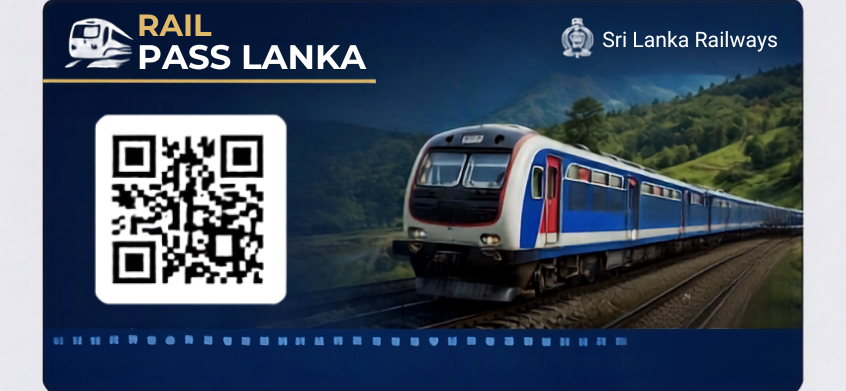
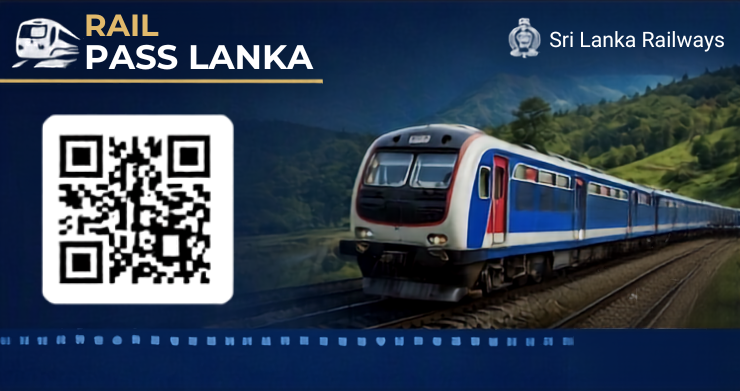
Add files via upload

diff --git a/index.html b/index.html
@@ -2,8 +2,9 @@
 <html lang="en">
 <head>
 <meta charset="UTF-8">
-<meta name="viewport" content="width=1200">
+<meta name="viewport" content="width=device-width, initial-scale=1.0">
 <title>RailPass SL — Digital Season Ticket Portal</title>
+<link rel="icon" type="image/png" href="bg.png">
 <link rel="preconnect" href="https://fonts.googleapis.com">
 <link href="https://fonts.googleapis.com/css2?family=Playfair+Display:wght@400;600;700;900&family=DM+Sans:wght@300;400;500;600&family=Bebas+Neue&display=swap" rel="stylesheet">
 <!-- Scanner Library -->
@@ -38,7 +39,7 @@
     background: var(--cream);
     color: var(--text);
     min-height: 100vh;
-    min-width: 1200px; 
+    
   }
 
   /* ─── VIEWS ─── */
@@ -159,15 +160,16 @@
   }
   
   .card-image-preview {
-    width: 420px;
-    height: 250px;
-    background-image: url('rail pass.png');
-    background-size: cover;
-    background-position: top;
-    border-radius: 12px;
-    box-shadow: 0 24px 80px rgba(0,0,0,0.5);
-    animation: float 4s ease-in-out infinite;
-  }
+  width: 420px;
+  height: 250px;
+  background-image: url('rail pass.png');
+  background-size: 100% 100%; 
+  background-position: center;
+  background-repeat: no-repeat;
+  border-radius: 12px;
+  box-shadow: 0 24px 80px rgba(0,0,0,0.5);
+  animation: float 4s ease-in-out infinite;
+}
   
   @keyframes float { 0%,100% { transform: translateY(0); } 50% { transform: translateY(-12px); } }
 
@@ -462,6 +464,41 @@
     #qr-gen-modal { position: absolute; left: 0; top: 0; width: 100%; height: 100%; background: none; }
     .modal-close, .btn-submit, .btn-outline { display: none !important; }
     .modal { box-shadow: none; border: none; margin-top: 50px; }
+  }
+
+
+  /* ─── MOBILE RESPONSIVE ─── */
+  @media (max-width: 768px) {
+    /* Navigation */
+    .top-nav { flex-direction: column; height: auto; padding: 15px; gap: 15px; }
+    .nav-links { flex-wrap: wrap; justify-content: center; }
+
+    /* Layouts & Grids */
+    .hero, .app-layout, .dashboard-layout, .login-page { grid-template-columns: 1fr; }
+    .hero-stats, .steps-grid, .season-cards, .portals-grid, .footer-grid, .stats-row { grid-template-columns: 1fr; gap: 20px; }
+    .form-grid { grid-template-columns: 1fr; }
+    .season-type-grid { grid-template-columns: 1fr; }
+
+    /* Paddings */
+    .hero, .section, .login-left, .login-right, .success-page { padding: 40px 20px; }
+    .app-main, .dash-main { padding: 20px 15px; }
+    footer { padding: 40px 20px 20px; }
+
+    /* Typography & Visuals */
+    .hero h1 { font-size: 38px; }
+    .hero-train-bg { font-size: 150px; bottom: 20px; right: -20px; }
+    .card-image-preview { width: 100%; height: 200px; }
+    .steps-grid::before { display: none; } /* රේඛාව ෆෝන් එකට ගැලපෙන්නේ නැති නිසා අයින් කිරීම */
+
+    /* Tables & Modals */
+    .table-card { overflow-x: auto; } /* වගුව පැත්තට Scroll කළ හැකි වීම */
+    table { min-width: 600px; }
+    .modal { width: 90%; padding: 24px; }
+    #scanner-modal .modal { width: 95%; }
+
+    /* OTP & Scanner Inputs */
+    .otp-inputs { flex-wrap: wrap; }
+    .otp-input { width: 40px; height: 48px; font-size: 18px; }
   }
 </style>
 </head>
